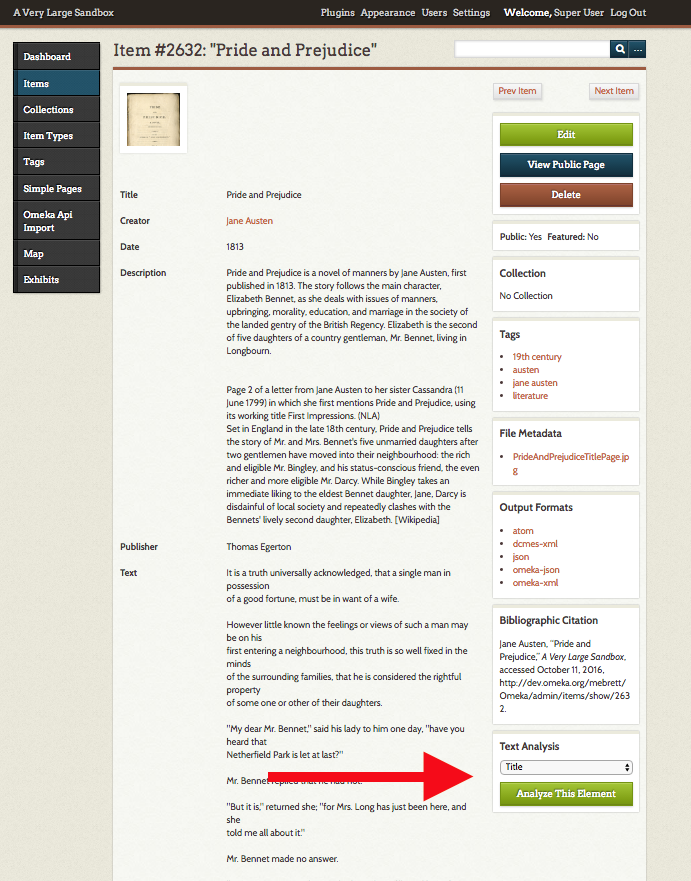
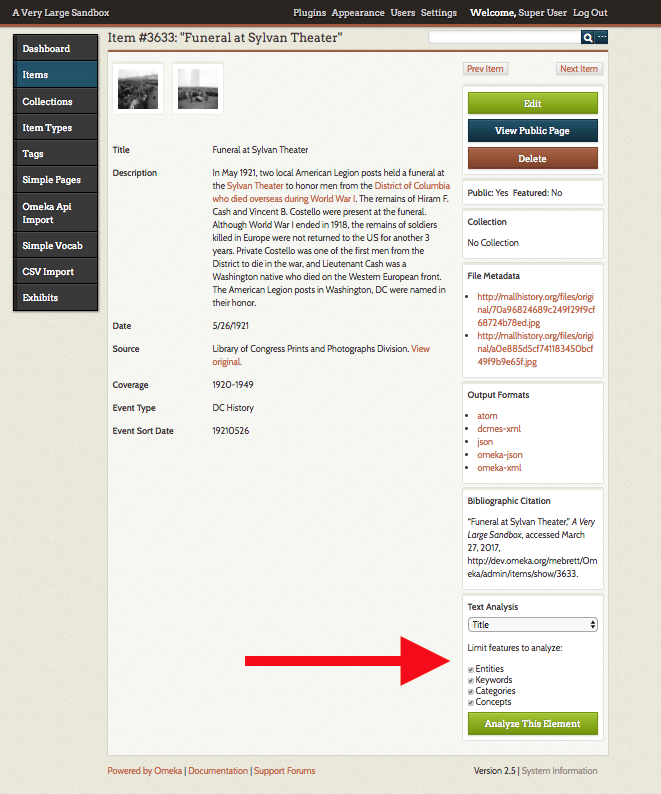
Image annotation documentation

diff --git a/docs/Plugins/ExhibitImageAnnotation.md b/docs/Plugins/ExhibitImageAnnotation.md
@@ -6,17 +6,20 @@ title: Exhibit Image Annotation
 
 This plugin adds a content block type to Exhibit Builder which allows you to create annotations on an image file. The annotation will be visible on both the public and admin views of the exhibit.
 
-Content blocks are the pieces which are used to create exhibit pages. If you have used Exhibit Builder, you have already worked with the following blocks: file with text, gallery, text, and file.
+Content blocks are the pieces used to create exhibit pages. If you have used Exhibit Builder, you have already worked with the following blocks: file with text, gallery, text, and file.
 
 ## Annotating an Image
-To add an image annotation, go to or create a page in your exhibit. 
+To add an image annotation, create a new page in an  exhibit, or go to an existing page on which you want the annotation bloc to appear.
 
 First, add an image annotation block: 
 1. In the New Block selection, click Image Annotation and click "Add new content block."
 2. This will add a new block with the label *Image Annotation* 
 
+![a red arrow points to the Image Annotation block in a set of five beige blocks at the bottom of an Omeka Exhibit page]( eximageanno_addblock.png)
+
 Next, add an image to the block by clicking the Add Item button. Select from the image files in your site, just as you would adding content to any exhibit page block.  
 
+![a red arrow points to the Add Item button, represented by a large brown plus sign with the text "Add Item" under it]( eximageanno_additem.png)
 
 Please note that each Image Annotation block can only have a single image, but you can put multiple blocks on a page.
 
@@ -24,11 +27,21 @@ Once you have selected an image, open the section of the block labeled *Annotate
 
 Click *Load selected image* to load a large version of the image you will annotate. This may take a moment. NB: You will need to do this every time you work with the image.
 
+![A detail of Exhibit page edits with the Image Annotation Block, with item Portrait of George Washington is available as the selected image . Below the item icon is a header for "Annotate Image" and a large red arrow points to the green "Load selected image" button]( eximageanno_loadimg.png)
+
 The image will load with a quill feather icon in the upper corner to indicate that this is an annotation-friendly image. You *do not need* to interact with the quill feather. 
 
-To create an annotation on the image: click and drag anywhere on the image to create rectangles. Once you have created a rectangle, an annotation box will appear where you can add a comment. Type your text in this annotation box. It will expand to fit the text you enter, allowing you to seen entire paragraphs. You can, if you choose, hand-code basic html into the annotations. Click Save to preserve the annotations, and cancel to abandon them.
+![A cropped view of the upper right hand corner of an image with a red background, showing a quill feather icon with faint text "Click and drag to annotate"]( eximageanno_quill.png)
+
+To create an annotation on the image: click and drag anywhere on the image to create rectangles. Once you have created a rectangle, an annotation box will appear where you can add a comment. Type your text in this annotation box. 
+
+![Middle of a painting depicting a torso dressed in black with an extended hand, palm up. There is a white rectangle around the hand - the annotation box - and immediately below it is a text entry field with a cursor, under which are "save" and "cancel" buttons]( eximageanno_addanno.png)
+
+It will expand to fit the text you enter, allowing you to seen entire paragraphs. You can, if you choose, hand-code basic html into the annotations. Click Save to preserve the annotations, and cancel to abandon them.
 
 To edit an existing annotation, hover over on its rectangle; the rectangle will highlight in yellow and you will see two icon buttons: a pencil, to edit the annotation, and an X to delete it.
+
+![The same image of a hand with palm upturned as before. This time the highlight of the rectangle surrounding the hand is yellow, not white, and the area below it has a caption "hand" to the left of a pencil icon for edit and an x in a circle icon for delete]( eximageanno_edit.png)
 
 Note that you can overlap annotations if you choose.
 
@@ -37,3 +50,4 @@ To delete an existing annotation, hover over it and click the X button in the me
 ## Viewing Annotations
 On the public side, image annotation blocks will appear as a full-size version of the image, with the rectangular outlines of the annotations visible. When a visitor hovers over the annotation outline, the text you have entered will appear.
 
+![A section of a painting showing drawpery in front of a cloudy sky in the background, and in the foreground an extended arm in black clothing with a hand, palm up. A white-edged rectangle outlines one of the clouds. A yellow-edged rectangle surrounds the hand, with a caption below it stating "Hand"]( eximagenno_public.png)

diff --git a/docs/Plugins/TextAnalysis.md b/docs/Plugins/TextAnalysis.md
@@ -1,22 +1,26 @@
 ---
 title: Text Analysis
 ---
-*Current version 1.1*
+*Current version 2.0*
 
-The Text Analysis plugin connects your Omeka Classic site with [AlchemyAPI](http://www.alchemyapi.com/) to enable text analysis on individual items. 
+The Text Analysis plugin connects your Omeka Classic site with [Watson Natural Language Understanding](https://www.ibm.com/watson/developercloud/natural-language-understanding.html) to enable text analysis on individual items. You must create an [IBM Bluemix account](https://www.ibm.com/watson/developercloud/doc/natural-language-understanding/getting-started.html) to use this plugin. 
+
+Because Bluemix includes paid plans, only SuperUsers and Admin users can make use of the functions of the text analysis plugin.
 
 Configuration
 -------------
 After you have installed the plugin, go to the Plugins tab in the upper navigation, and scroll down to Text Analysis. Click the blue *Configure* button. 
 
-On the Configure Plugin page, enter your [AlchemyAPI key](http://www.alchemyapi.com/api/register.html). In order to get an AlchemyAPI key, you must register for the Watson Developer cloud, part of IBM Bluemix. While IBM Bluemix has paid options, you should be able to use the free version to run this plugin. (Note: once logged in to Bluemix, AlchemyAPI is under the Watson tab. See their [getting started documentation](https://new-console.ng.bluemix.net/docs/services/AlchemyAPI/index.html#gettingstartedtemplate) for more information). 
+On the Configure Plugin page, enter your Bluemix username and password.
 
 ![Configuration settings](../doc_files/plugin_images/textanalysis_config.png)
 
-Be sure to save changes after entering the API key.
+Be sure to save changes.
 
 Using Text Analysis
 --------------------
+**Note:** Because usage may incur costs with IBM Bluemix, use of this plugin is restricted to SuperUsers and Admin users only.
+
 Once you have saved the API key, you can view text analysis on any item in your collection. 
 
 Go to the Items tab on on the left hand navigation and click on the title of any item (this plugin will work best with longer text blocks). Note that you want to click on the title and not the *edit* button so that you are looking at the items/show page, not the items/edit page. 
@@ -25,7 +29,16 @@ On the items/show page, the bottom option of the right hand blocks (below the Ed
 
 ![Large red arrow points to the Text Analysis block](../doc_files/plugin_images/textanalysis_location.png)
 
-Select an element from the dropdown in the Text Analysis block; you should be able to select any Dublin Core or Item Type element that has text entered in that item. Once you have chosen an element, click the *Analyze This Element* button.
+Select an element from the dropdown in the Text Analysis block; you should be able to select any Dublin Core or Item Type element that has text entered in that item. 
+
+The checkboxes below the dropdown menu allow you to limit which features to analyze. By default they are all checked, but you can uncheck up to three if you want. Your options are (see below for more information):
+
+- Entities
+- Keywords
+- Categories
+- Concepts 
+
+Once you have chosen an element and, if desired, limited the features, click the *Analyze This Element* button.
 
 ![Text Analysis block close up](../doc_files/plugin_images/textanalysis_dropdown.png)
 
